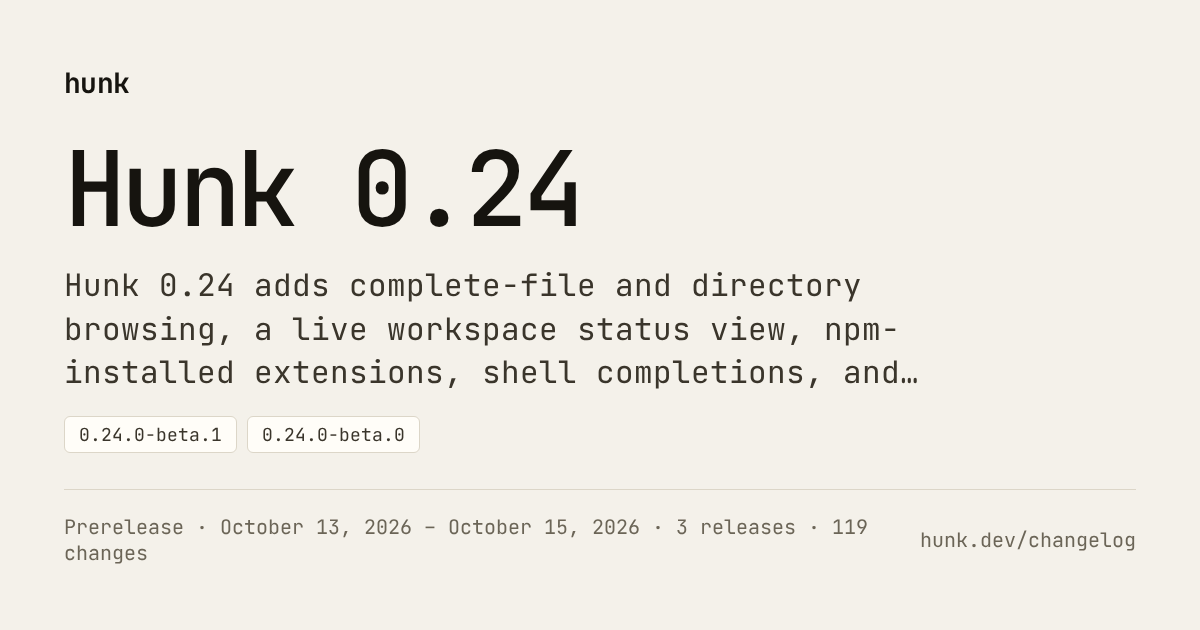
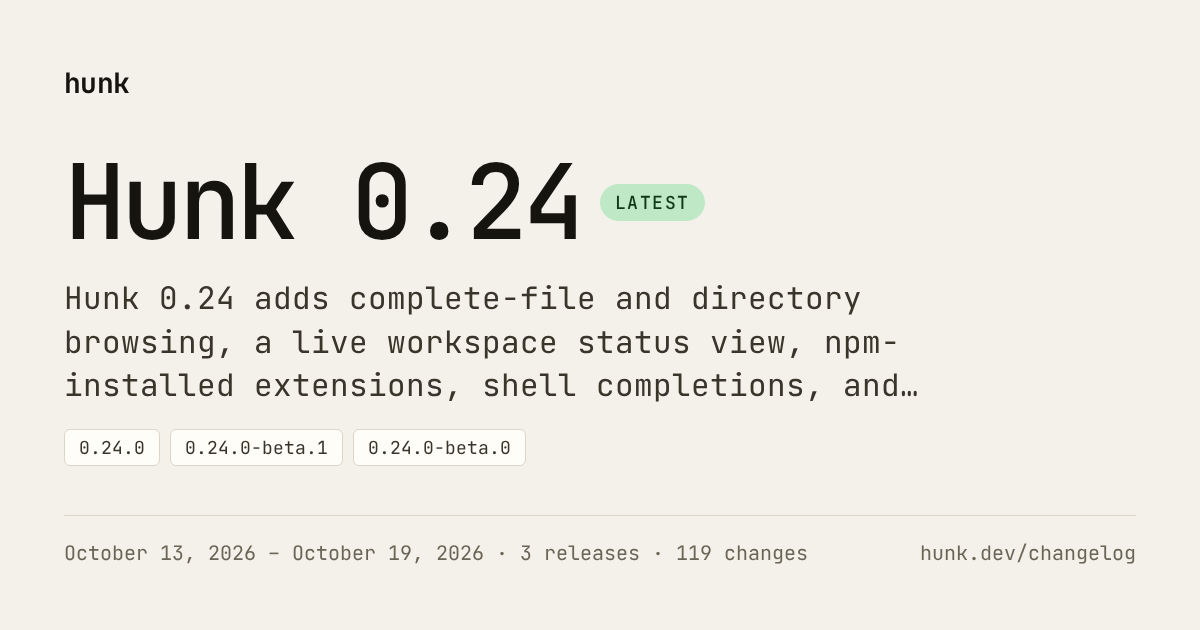
docs(release): publish stable 0.24.0 notes (#1206)

diff --git a/website/tests/changelog-smoke.spec.ts b/website/tests/changelog-smoke.spec.ts
@@ -88,8 +88,13 @@ test("the previous stable series keeps its prerelease anchors and pinned install
 test("the current stable series publishes default install and update guidance", async ({
   page,
 }) => {
-  await page.goto("/changelog/0.23/");
-  await expect(page.getByRole("heading", { level: 3, name: "0.23.0", exact: true })).toBeVisible();
+  const latest = JSON.parse(
+    readFileSync(new URL("../releases/latest.json", import.meta.url), "utf8"),
+  ) as { minor: string; version: string };
+  await page.goto(`/changelog/${latest.minor}/`);
+  await expect(
+    page.getByRole("heading", { level: 3, name: latest.version, exact: true }),
+  ).toBeVisible();
   const installBlocks = page.locator(".sl-markdown-content pre");
   await expect(installBlocks.filter({ hasText: "curl -fsSL" })).toHaveCount(1);
   await expect(installBlocks.filter({ hasText: "hunk update" })).toHaveCount(1);

diff --git a/website/src/content/docs/changelog/0.24.md b/website/src/content/docs/changelog/0.24.md
@@ -11,7 +11,7 @@ head:
   - tag: meta
     attrs:
       property: og:image:alt
-      content: "Hunk 0.24 release notes — Prerelease · October 13, 2026 – October 15, 2026 · 3 releases · 119 changes"
+      content: "Hunk 0.24 release notes — October 13, 2026 – October 19, 2026 · 3 releases · 119 changes"
   - tag: meta
     attrs:
       name: twitter:image
@@ -20,9 +20,23 @@ head:
 
 <!-- GENERATED by `bun run generate:changelog`. Edit CHANGELOG.md or website/releases/notes.json instead. -->
 
-Prerelease · October 13, 2026 – October 15, 2026 · 3 releases
+October 13, 2026 – October 19, 2026 · 3 releases
 
 Hunk 0.24 adds complete-file and directory browsing, a live workspace status view, npm-installed extensions, shell completions, and pane-aware automatic diff layout, while moving syntax highlighting off the review's main thread by default.
+
+New to Hunk? Use the default installer. It verifies downloads when release checksums and local tooling are available, and warns otherwise:
+
+```sh
+curl -fsSL https://hunk.dev/install.sh | sh
+```
+
+Already on Hunk 0.20 or newer with the default install script, npm, or Homebrew? Move to this release with Hunk's canonical update command:
+
+```sh
+hunk update
+```
+
+On an older Hunk release, update once through the installer or package manager that installed it, then use `hunk update`. mise, Nix, source, and custom-directory installs remain owned by their own update workflows. This is the current release; see [all install options](/docs/start/install/).
 
 ## Related documentation
 
@@ -38,7 +52,7 @@ Hunk 0.24 adds complete-file and directory browsing, a live workspace status vie
 
 ### 0.24.0
 
-Unreleased
+October 19, 2026
 
 #### Minor Changes
 

diff --git a/website/src/content/docs/changelog/0.23.md b/website/src/content/docs/changelog/0.23.md
@@ -24,19 +24,11 @@ September 30, 2026 · 1 release
 
 Hunk 0.23 brings diff search, bundled GitHub review, an inline status line, and a default theme that follows your terminal, while making daemon version mismatches easier to resolve.
 
-New to Hunk? Use the default installer. It verifies downloads when release checksums and local tooling are available, and warns otherwise:
-
 ```sh
-curl -fsSL https://hunk.dev/install.sh | sh
+npm i -g hunkdiff@0.23.0
 ```
 
-Already on Hunk 0.20 or newer with the default install script, npm, or Homebrew? Move to this release with Hunk's canonical update command:
-
-```sh
-hunk update
-```
-
-On an older Hunk release, update once through the installer or package manager that installed it, then use `hunk update`. mise, Nix, source, and custom-directory installs remain owned by their own update workflows. This is the current release; see [all install options](/docs/start/install/).
+Hunk 0.23 is no longer the current release. See [the latest release](/changelog/) or [all install options](/docs/start/install/).
 
 ## Related documentation
 

diff --git a/website/src/content/docs/changelog/index.md b/website/src/content/docs/changelog/index.md
@@ -24,13 +24,13 @@ head:
 
 ## [Hunk 0.24](/changelog/0.24/)
 
-Prerelease · October 13, 2026 – October 15, 2026 · 3 releases · 119 changes
+Latest · October 13, 2026 – October 19, 2026 · 3 releases · 119 changes
 
 Hunk 0.24 adds complete-file and directory browsing, a live workspace status view, npm-installed extensions, shell completions, and pane-aware automatic diff layout, while moving syntax highlighting off the review's main thread by default.
 
 ## [Hunk 0.23](/changelog/0.23/)
 
-Latest · September 30, 2026 · 1 release · 18 changes
+September 30, 2026 · 1 release · 18 changes
 
 Hunk 0.23 brings diff search, bundled GitHub review, an inline status line, and a default theme that follows your terminal, while making daemon version mismatches easier to resolve.
 

diff --git a/.changeset/current-stable-changelog-smoke.md b/.changeset/current-stable-changelog-smoke.md
@@ -1,0 +1,2 @@
+---
+---
